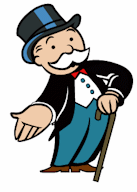
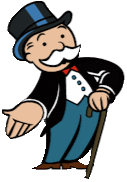
new rich photo

Changed region(s): [[0.0, 0.0, 0.9921, 0.989], [0.7323, 0.7143, 0.7559, 0.7418]]

diff --git a/public/stylesheets/custom.css b/public/stylesheets/custom.css
@@ -60,8 +60,8 @@ h7 {
 
 h8 {
     position: relative;
-    top: -200px;
-    left: 700px;
+    top: -260px;
+    left: 640px;
     font-size: 300%;
 
 }
@@ -73,8 +73,8 @@ h9 {
 
 h10 img {
     position: relative;
-    right: -600px;
-    top: 50px;
+    right: -330px;
+    top: 80px;
 
 }
 
